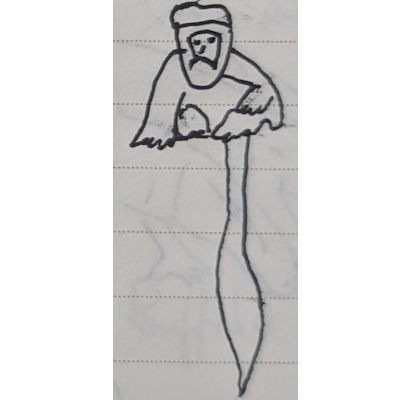
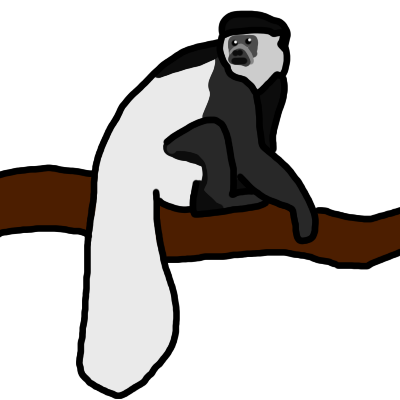
guereza

diff --git a/Assets/Scripts/Global/SessionManager.cs b/Assets/Scripts/Global/SessionManager.cs
@@ -1,137 +1,52 @@
 using System.Collections.Generic;
 using System.IO;
+using Unity.VisualScripting;
 using UnityEngine;
 
 public class SessionManager : MonoBehaviour
 {
-    private WorldData _worldData;
-    public WorldData WorldData => _worldData;
-
-    private GameData _gameData;
-    public GameData GameData => _gameData;
+    public WorldData WorldData { get; private set; }
+    public GameData GameData { get; private set; }
+    
+    private bool _sessionSet = false;
+    
+    public bool SessionSet => _sessionSet;
+    
+    public SaveManager SaveManager { get; private set; }
     
     public UiData UiData { get; set; }
 
-    private string WorldsFolder =>
-        Path.Combine(Application.persistentDataPath, "Worlds");
-
-    private string GamesFolder =>
-        Path.Combine(Application.persistentDataPath, "Games");
-
     [SerializeField] private bool _useDebugGameData;
     [SerializeField] private string _debugDataName;
+    
+    public void SetSession(WorldData world)
+    {
+        SetSession(world, null);
+        _sessionSet = true;
+    }
 
+    public void SetSession(WorldData world, GameData game)
+    {
+        WorldData = world;
+        GameData = game;
+        _sessionSet = true;
+    }
+
+    public void StartNewGame()
+    {
+        GameData = new GameData();
+    }
+    
     private void Start()
     {
+        SaveManager = new SaveManager(this);
         #if UNITY_EDITOR
-            if (_useDebugGameData && _gameData == null)
+            if (_useDebugGameData && GameData == null)
             {
-                Debug.Log("Loading debug game data");
-                LoadGameDataFromName(_debugDataName);
+                // ask save manager to load debug data
             }
         #endif
     }
 
-    public List<string> GetWorldSaveFiles()
-    {
-        List<string> saveFiles = new List<string>();
-        if (Directory.Exists(WorldsFolder))
-        {
-            string[] files = Directory.GetFiles(WorldsFolder, "*.json");
 
-            foreach (string filePath in files)
-            {
-                string fileName = Path.GetFileNameWithoutExtension(filePath);
-                saveFiles.Add(fileName);
-            }
-        }
-
-        return saveFiles;
-    }
-
-    public void SetWorldData(WorldData worldData)
-    {
-        _worldData = worldData;
-    }
-
-    public void SaveWorldData()
-    {
-        WorldSaveData saveData = _worldData.ToSaveData();
-        string json = JsonUtility.ToJson(saveData, true);
-        string path = WorldsFolder + "/" + saveData.WorldName + ".json";
-        File.WriteAllText(path, json);
-    }
-
-    public void LoadWorldDataFromName(string worldName)
-    {
-        string json = File.ReadAllText(GetWorldPathFromName(worldName));
-        WorldSaveData saveData = JsonUtility.FromJson<WorldSaveData>(json);
-        WorldData loadedWorld = new WorldData(saveData.Hexes);
-        
-        foreach (River river in saveData.Rivers)
-        {
-            river.PopulateRiverConnections();
-        }
-        
-        loadedWorld.Rivers = new SpatialLookup<RiverID, River>(saveData.Rivers);
-        loadedWorld.Lakes = new SpatialLookup<LakeID, Lake>(saveData.Lakes);
-        loadedWorld.GeoFeatures = new SpatialLookup<GeoID, GeoFeature>(saveData.GeoFeatures);
-
-        loadedWorld.Regions = new IndexedDictionary<RegionID, Region>(saveData.Regions);
-
-        SetWorldData(loadedWorld);
-
-        MapTexture miniMapTexture =
-            TextureUtilities.GetMapTextureFromWorldData(GameController.Instance.SessionManager.WorldData, 1200, 695);
-
-        GameController.Instance.SessionManager.UiData = new UiData(miniMapTexture);
-    }
-
-    private string GetWorldPathFromName(string worldName)
-    {
-        return Path.Combine(WorldsFolder, worldName + ".json");
-    }
-    
-    public void NewGameData()
-    {
-        _gameData = new GameData();
-    }
-
-    public void SaveGameData()
-    {
-        GameSaveData saveData = _gameData.ToSaveData();
-        string json = JsonUtility.ToJson(saveData, true);
-        string path = GamesFolder + "/" + saveData.GameName + ".json";
-        File.WriteAllText(path, json);
-    }
-
-    public void LoadGameDataFromName(string gameName)
-    {
-        string json = File.ReadAllText(GetGamePathFromName(gameName));
-        GameSaveData saveData =  JsonUtility.FromJson<GameSaveData>(json);
-        
-        string worldName =  saveData.WorldName;
-        LoadWorldDataFromName(worldName);
-
-        NewGameData();
-        _gameData.GameName = saveData.GameName;
-        _gameData.WorldName = saveData.WorldName;
-        _gameData.Ticker = new Ticker(saveData.TickInfo);
-        _gameData.Pops.LoadPops(saveData.Pops);
-        
-        foreach(Religion religion in saveData.Religions)
-        {
-            _gameData.Religions.Add(religion.ID, religion);
-        }
-        
-        foreach(Culture culture in saveData.Cultures)
-        {
-            _gameData.Cultures.Add(culture.ID, culture);
-        }
-    }
-
-    private string GetGamePathFromName(string gameName)
-    {
-        return Path.Combine(GamesFolder, gameName + ".json");
-    }
 }

diff --git a/Assets/Scripts/Global/SaveManager.cs b/Assets/Scripts/Global/SaveManager.cs
@@ -1,0 +1,142 @@
+using System.Collections.Generic;
+using System.IO;
+using UnityEngine;
+
+
+public class SaveManager
+{
+    private string WorldsFolder => Path.Combine(Application.persistentDataPath, "Worlds");
+
+    private string GamesFolder => Path.Combine(Application.persistentDataPath, "Games");
+    
+    private SessionManager _sessionManager;
+
+    public SaveManager(SessionManager sessionManager)
+    {
+        _sessionManager = sessionManager;
+    }
+    
+    public List<string> GetWorldSaveFiles()
+    {
+        List<string> saveFiles = new List<string>();
+        if (Directory.Exists(WorldsFolder))
+        {
+            string[] files = Directory.GetFiles(WorldsFolder, "*.json");
+
+            foreach (string filePath in files)
+            {
+                string fileName = Path.GetFileNameWithoutExtension(filePath);
+                saveFiles.Add(fileName);
+            }
+        }
+
+        return saveFiles;
+    }
+
+    public List<string> GetGameSaveFiles()
+    {
+        List<string> saveFiles = new List<string>();
+        if (Directory.Exists(WorldsFolder))
+        {
+            string[] files = Directory.GetFiles(GamesFolder, "*.json");
+
+            foreach (string filePath in files)
+            {
+                string fileName = Path.GetFileNameWithoutExtension(filePath);
+                saveFiles.Add(fileName);
+            }
+        }
+
+        return saveFiles;
+    }
+    
+    public void SaveWorldData(WorldData worldData)
+    {
+        WorldSaveData saveData = worldData.ToSaveData();
+        string json = JsonUtility.ToJson(saveData, true);
+        string path = WorldsFolder + "/" + saveData.WorldName + ".json";
+        File.WriteAllText(path, json);
+    }
+
+    public WorldData LoadWorldData(string worldName)
+    {
+        string json = File.ReadAllText(GetWorldPathFromName(worldName));
+        WorldSaveData saveData = JsonUtility.FromJson<WorldSaveData>(json);
+        WorldData loadedWorld = new WorldData(saveData.Hexes);
+        
+        foreach (River river in saveData.Rivers)
+        {
+            river.PopulateRiverConnections();
+        }
+        
+        loadedWorld.Rivers = new SpatialLookup<RiverID, River>(saveData.Rivers);
+        loadedWorld.Lakes = new SpatialLookup<LakeID, Lake>(saveData.Lakes);
+        loadedWorld.GeoFeatures = new SpatialLookup<GeoID, GeoFeature>(saveData.GeoFeatures);
+
+        loadedWorld.Regions = new IndexedDictionary<RegionID, Region>(saveData.Regions);
+        
+        return loadedWorld;
+    }
+
+    private string GetWorldPathFromName(string worldName)
+    {
+        return Path.Combine(WorldsFolder, worldName + ".json");
+    }
+
+    private void SaveGameData(GameData gameData)
+    {
+        GameSaveData saveData = gameData.ToSaveData();
+        string json = JsonUtility.ToJson(saveData, true);
+        string path = GamesFolder + "/" + saveData.GameName + ".json";
+        File.WriteAllText(path, json);
+    }
+
+    private GameData LoadGameData(string gameName)
+    {
+        string json = File.ReadAllText(GetGamePathFromName(gameName));
+        GameSaveData saveData =  JsonUtility.FromJson<GameSaveData>(json);
+
+        GameData gameData = new GameData();
+        gameData.GameName = saveData.GameName;
+        gameData.WorldName = saveData.WorldName;
+        gameData.Ticker = new Ticker(saveData.TickInfo);
+        gameData.Pops.LoadPops(saveData.Pops);
+        
+        foreach(Religion religion in saveData.Religions)
+        {
+            gameData.Religions.Add(religion.ID, religion);
+        }
+        
+        foreach(Culture culture in saveData.Cultures)
+        {
+            gameData.Cultures.Add(culture.ID, culture);
+        }
+
+        return gameData;
+    }
+
+    private string GetGamePathFromName(string gameName)
+    {
+        return Path.Combine(GamesFolder, gameName + ".json");
+    }
+    
+    public void LoadGame(string gameName)
+    {
+        GameData gameData = LoadGameData(gameName);
+        
+        string worldName = gameData.WorldName;
+        
+        WorldData worldData = LoadWorldData(worldName);
+        
+        _sessionManager.SetSession(worldData, gameData);
+    }
+
+    public void SaveGame()
+    {
+        string gameName = _sessionManager.GameData.GameName;
+        string worldName = _sessionManager.GameData.WorldName;
+        
+        SaveWorldData(_sessionManager.WorldData);
+        SaveGameData(_sessionManager.GameData);
+    }
+}

diff --git a/Assets/Scripts/MainMenu/NewGameMenuController.cs b/Assets/Scripts/MainMenu/NewGameMenuController.cs
@@ -69,22 +69,23 @@ public class NewGameMenuController : SubMenu
 
     private void SetWorldAsCurrent(WorldData worldData)
     {
-        GameController.Instance.SessionManager.SetWorldData(worldData);
+        GameController.Instance.SessionManager.SetSession(worldData);
     }
 
     public void SaveCurrentWorld()
     {
-        GameController.Instance.SessionManager.SaveWorldData();
+        GameController.Instance.SessionManager.SaveManager.SaveWorldData(GameController.Instance.SessionManager.WorldData);
     }
 
     public void UpdateSaveFileNames()
     {
-        WorldSaveFilenames = GameController.Instance.SessionManager.GetWorldSaveFiles();
+        WorldSaveFilenames = GameController.Instance.SessionManager.SaveManager.GetWorldSaveFiles();
     }
 
     public void LoadWorld(string worldName)
     {
-        GameController.Instance.SessionManager.LoadWorldDataFromName(worldName);
+        WorldData worldData = GameController.Instance.SessionManager.SaveManager.LoadWorldData(worldName);
+        GameController.Instance.SessionManager.SetSession(worldData);
 
         PreviewCurrentWorld();
     }

diff --git a/Assets/Scripts/MainMenu/SimulationMenuController.cs b/Assets/Scripts/MainMenu/SimulationMenuController.cs
@@ -43,9 +43,9 @@ public class SimulationMenuController : SubMenu
 
     private void InitializeWorld()
     {
+        GameController.Instance.SessionManager.StartNewGame();
         TickInfo newTickInfo =  new TickInfo();
         Ticker newTicker = new Ticker(newTickInfo);
-        GameController.Instance.SessionManager.NewGameData();
         GameController.Instance.SessionManager.GameData.Ticker = newTicker;
         GameController.Instance.SessionManager.GameData.GameName = "Debug";
         GameController.Instance.SessionManager.GameData.WorldName = GameController.Instance.SessionManager.WorldData.Name;

diff --git a/Assets/Scripts/GameScene/GameInputHandler.cs b/Assets/Scripts/GameScene/GameInputHandler.cs
@@ -8,7 +8,7 @@ public class GameInputHandler : MonoBehaviour
     {
         if (Input.GetKeyDown(KeyCode.S) && (Input.GetKey(KeyCode.LeftShift) || Input.GetKey(KeyCode.RightShift)))
         {
-            GameController.Instance.SessionManager.SaveGameData();
+            GameController.Instance.SessionManager.SaveManager.SaveGame();
         }
     }
 }

diff --git a/Assets/Scripts/Global/GameData.cs b/Assets/Scripts/Global/GameData.cs
@@ -5,9 +5,8 @@ using UnityEngine;
 
 public class GameData
 {
-    public string GameName = "test_game";
-
-    public string WorldName = "test_world";
+    public string GameName;
+    public string WorldName;
     
     public Ticker Ticker;
     
